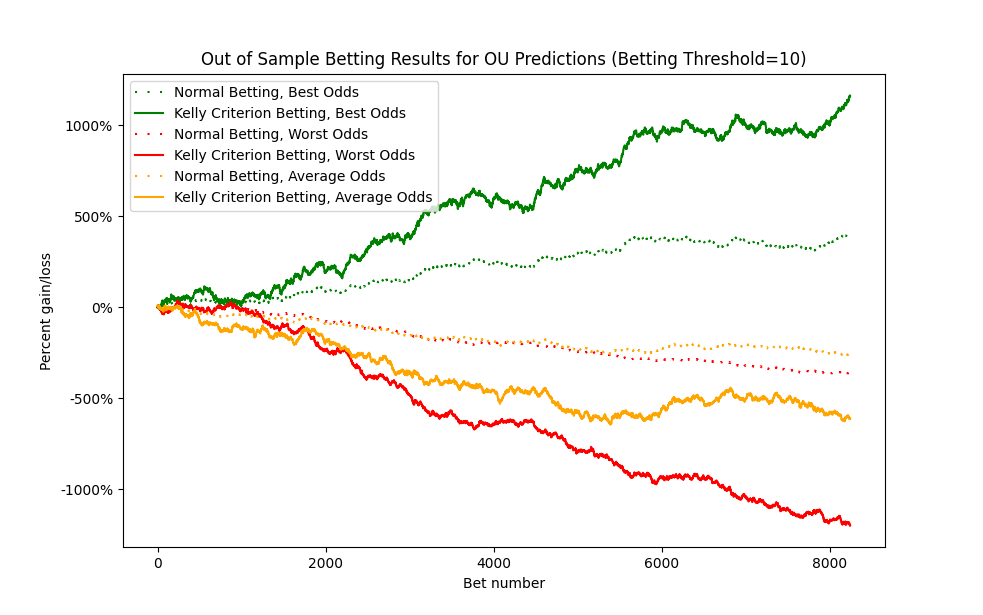
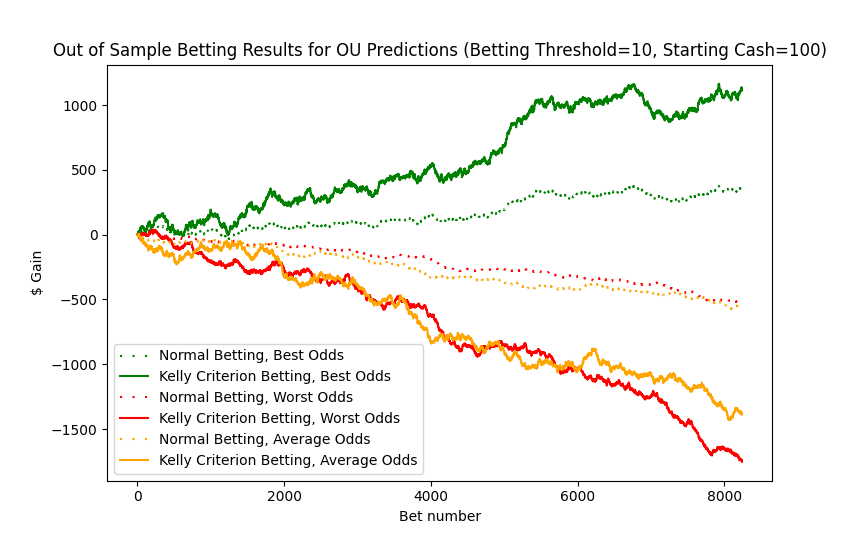
Replaced graphs

diff --git a/ModelTester.py b/ModelTester.py
@@ -174,6 +174,9 @@ class ModelTester:
 			lambda x: 0 if x < 0 else x
 		)
 
+		# print("Kelly stake when bet wins:", df.loc[df["bet"] & df["win_bet"], "kelly_wager_size"].mean())
+		# print("Kelly stake when bet loses:", df.loc[df["bet"] & ~df["win_bet"], "kelly_wager_size"].mean())
+
 		df["kelly_gain_loss"] = np.zeros(len(df), dtype="float")
 		df["normal_gain_loss"] = np.zeros(len(df), dtype="float")
 
@@ -191,8 +194,8 @@ class ModelTester:
 			-1 * df["kelly_wager_size"].mean() * STARTING_CASH
 		)
 
-		df["kelly_cumulative_return"] = df["kelly_gain_loss"].cumsum() / STARTING_CASH
-		df["cumulative_return"] = df["normal_gain_loss"].cumsum() / STARTING_CASH
+		df["kelly_cumulative_return"] = df["kelly_gain_loss"].cumsum() #/ STARTING_CASH
+		df["cumulative_return"] = df["normal_gain_loss"].cumsum() #/ STARTING_CASH
 
 		if not df["bet"].sum():
 			return 0, 0, 0
@@ -213,8 +216,8 @@ class ModelTester:
 			print(f"Kelly gain/loss: {kelly_gain_or_loss}")
 			plt.plot(df.index, df["cumulative_return"])
 			plt.plot(df.index, df["kelly_cumulative_return"])
-			plt.show()
-
+			plt.show() 
+	
 		return (
 			bets_made,
 			win_rate,
@@ -571,16 +574,16 @@ def compare_kelly_to_normal():
 		average_totals = []
 		average_kelly_totals = []
 
-		for i in range(10):
+		for i in range(5):
 			m = ModelTester(
 				model_class=LinearRegressor,
-				predict_type="Spread",
+				predict_type="OU",
 				odds_type=odds,
 				betting_threshold=10,
 			)
 			res = m.bet_with_predictions(m.test_df_result)
-			cumulative_total = res[4]
-			kelly_cumulative_total = res[5]
+			cumulative_total = res[5]
+			kelly_cumulative_total = res[4]
 			average_totals.append(cumulative_total)
 			average_kelly_totals.append(kelly_cumulative_total)
 
@@ -600,16 +603,15 @@ def compare_kelly_to_normal():
 		)
 
 	plt.xlabel("Bet number")
-	plt.ylabel("Percent gain/loss")
-	plt.title("Out of Sample Betting Results for OU Predictions (Betting Threshold=10)")
-	plt.gca().set_yticklabels([f"{x:.0%}" for x in plt.gca().get_yticks()])
+	plt.ylabel("$ Gain")
+	plt.title("Out of Sample Betting Results for OU Predictions (Betting Threshold=10, Starting Cash=100)")
 	plt.legend()
 	plt.show()
 
 
-# compare_kelly_to_normal()
+compare_kelly_to_normal()
 
-comapare_odd_types = compare_odd_types(graph_type="gain/loss")
+# comapare_odd_types = compare_odd_types(graph_type="gain/loss")
 
 # m = ModelTester(model_class=CARTLearner, predict_type='OU', odds_type='best', betting_threshold=10, leaf_size=10)
 # m.bet_with_predictions(m.test_df_result, print_results=True)
